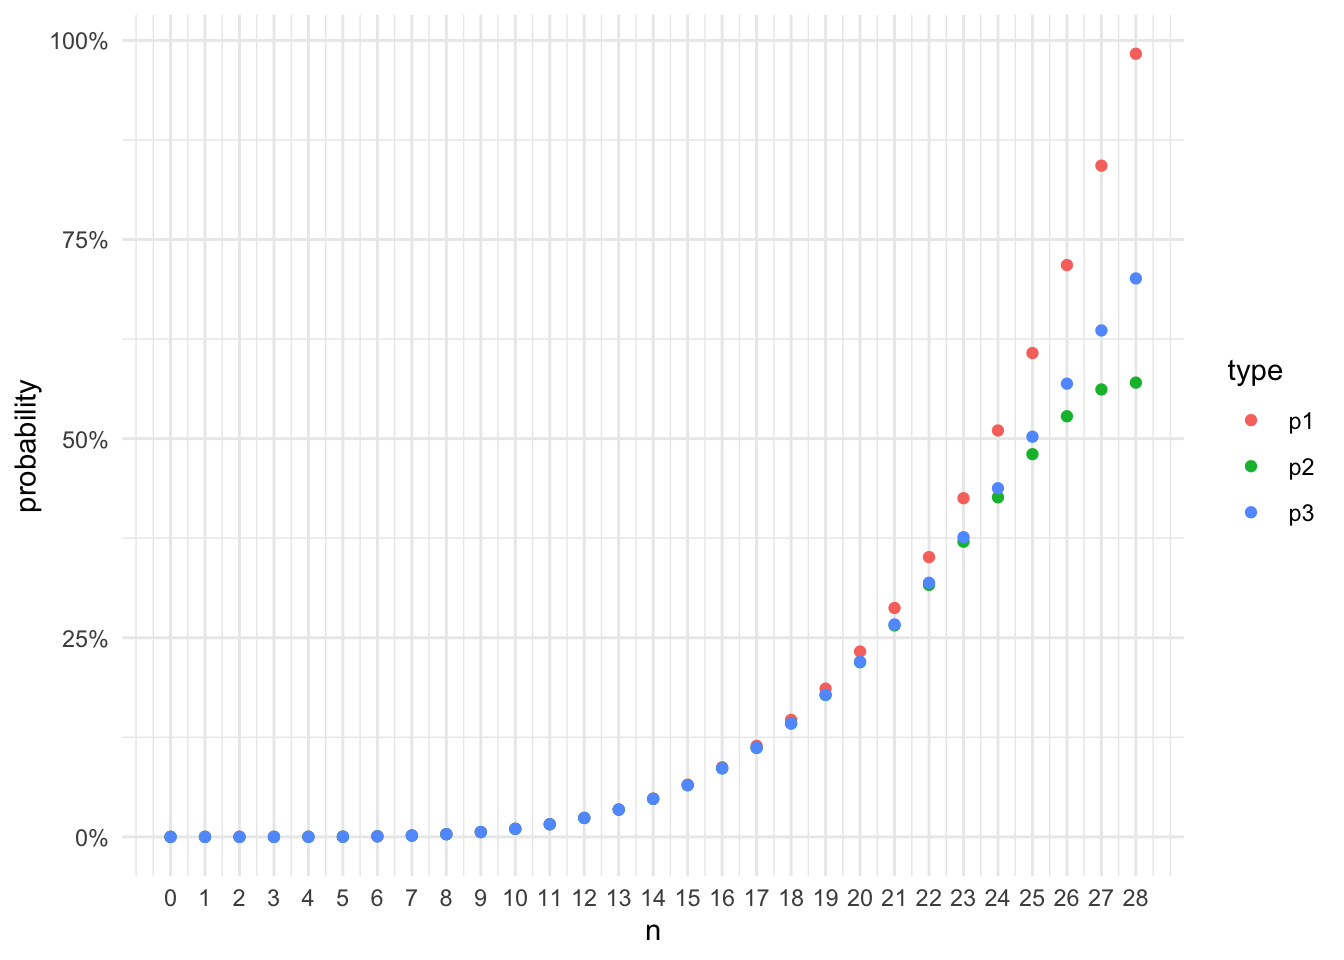
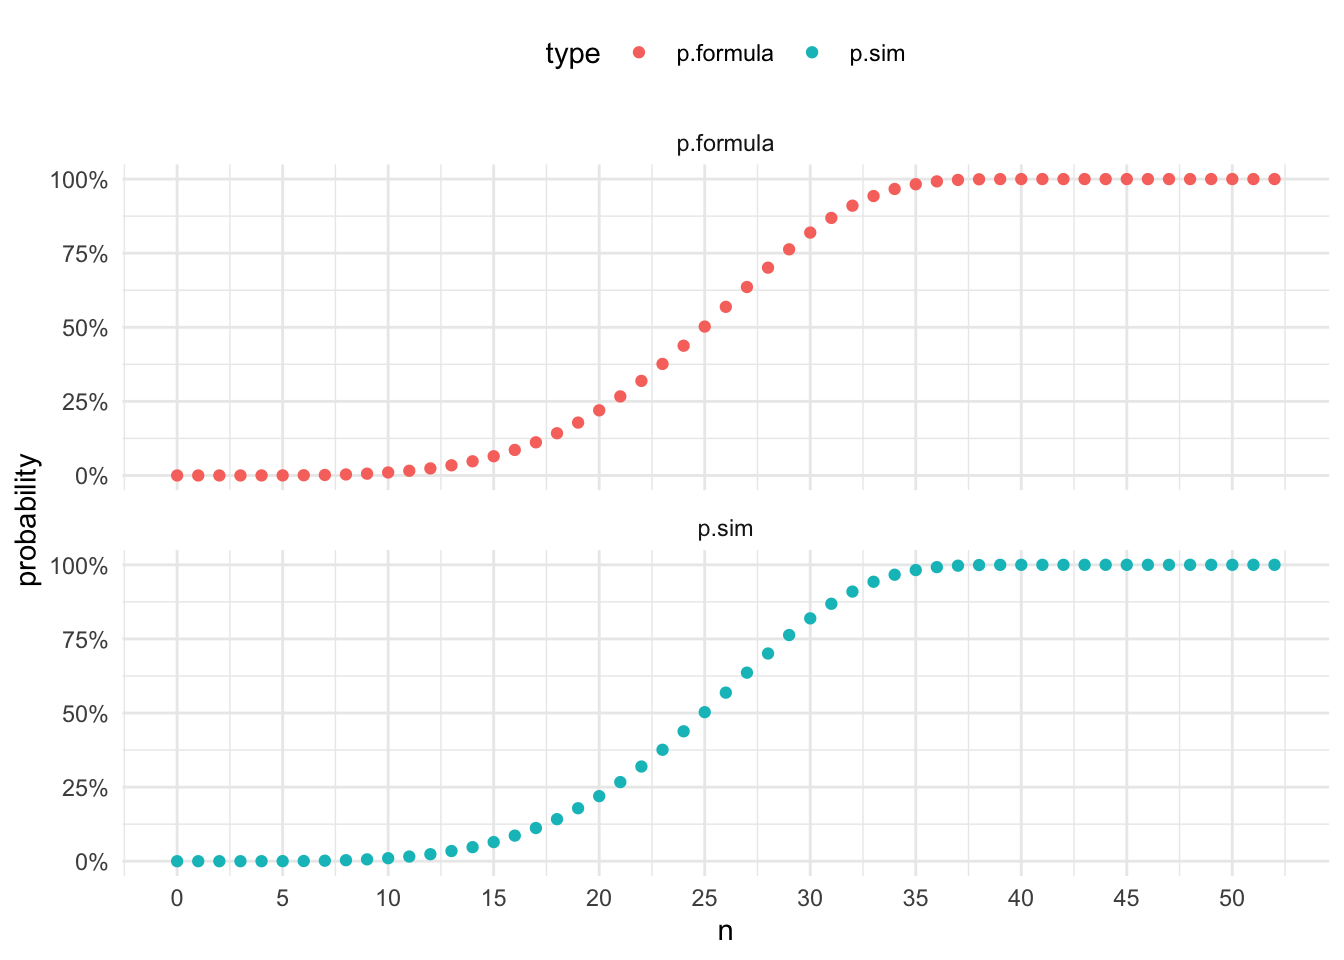
Finish up the first draft of the article

diff --git a/content/post/2021-05-14-the-journey-of-discovering-four-of-a-kind-in-a-standard-deck-of-cards/index.html b/content/post/2021-05-14-the-journey-of-discovering-four-of-a-kind-in-a-standard-deck-of-cards/index.html
@@ -372,7 +372,7 @@ P(\text{exactly 2 four-of-a-kind}) = \frac{\binom{13}{2} \cdot \binom{44}{n-8}}{
 \]</span></p>
 <p>I now turn my attention to the first term <span class="math inline">\(P(\text{exactly 1 four-of-a-kind})\)</span>.</p>
 <p><span class="math display">\[
-P(\text{exactly 1 four-of-a-kind}) = P(\text{1 four-of-a-kind}) \cdot [1 - P_{-1}(\text{four-of-a-kind})]
+P(\text{exactly 1 four-of-a-kind}) = P(\text{1 four-of-a-kind}) \cdot [1 - P_{12}(\text{four-of-a-kind})]
 \]</span></p>
 <p>where,</p>
 <p><span class="math display">\[
@@ -380,11 +380,11 @@ P(\text{1 four-of-a-kind}) = \frac{\binom{13}{1} \cdot \binom{48}{n-4}}{\binom{5
 \]</span></p>
 <p>and</p>
 <p><span class="math display">\[
-P_{-1}(\text{four-of-a-kind}) = \frac{\binom{12}{1} \cdot \binom{44}{n-8}}{\binom{48}{n-4}}
+P_{12}(\text{four-of-a-kind}) = \frac{\binom{12}{1} \cdot \binom{44}{n-8}}{\binom{48}{n-4}}
 \]</span></p>
 <ul>
 <li><span class="math inline">\(P(\text{1 four-of-a-kind})\)</span> is the probability of having at least 1 four-of-a-kind.</li>
-<li><span class="math inline">\(P_{-1}(\text{exactly 1 four-of-a-kind})\)</span> is <em>the probability of having exactly 1 four-of-a-kind in the remaining 48 cards when a kind has already been drawn (hence the -1 subscript)</em>. When <span class="math inline">\(8 \leq n \leq 11\)</span>, <span class="math inline">\(4 \leq n-4 \leq 7\)</span>, so the only possibility of having four-of-a-kind is to have exactly 1 four-of-a-kind in the remaining <span class="math inline">\(n-4\)</span> cards in the hand.</li>
+<li><span class="math inline">\(P_{12}(\text{four-of-a-kind})\)</span> is <em>the probability of having four-of-a-kind in the remaining 48 (i.e., only 12 ranks left and hence the subscript) cards when a kind has already been drawn</em>. When <span class="math inline">\(8 \leq n \leq 11\)</span>, <span class="math inline">\(4 \leq n-4 \leq 7\)</span>, so the only possibility of having four-of-a-kind is to have exactly 1 four-of-a-kind in the remaining <span class="math inline">\(n-4\)</span> cards in the hand.</li>
 </ul>
 <p>Putting these all together:</p>
 <p><span class="math display">\[
@@ -417,7 +417,7 @@ P(\text{exactly 3 four-of-a-kind}) = \frac{\binom{13}{3} \cdot \binom{40}{n-12}}
 <p>When <span class="math inline">\(12 \leq n \leq 15\)</span>, <span class="math inline">\(0 \leq n-12 \leq 3\)</span>, so it’s not possible to have four-of-kind in the residual (i.e., <span class="math inline">\(n-12\)</span>) cards.</p>
 <p>I can deduce <span class="math inline">\(P(\text{exactly 2 four-of-a-kind})\)</span> using the same logic I used in the second case.</p>
 <p><span class="math display">\[
-P(\text{exactly 2 four-of-a-kind}) = P(\text{2 four-of-a-kind}) \cdot [1 - P_{-2}(\text{four-of-a-kind})]
+P(\text{exactly 2 four-of-a-kind}) = P(\text{2 four-of-a-kind}) \cdot [1 - P_{11}(\text{four-of-a-kind})]
 \]</span></p>
 <p>where,</p>
 <p><span class="math display">\[
@@ -425,19 +425,19 @@ P(\text{2 four-of-a-kind}) = \frac{\binom{13}{2} \cdot \binom{44}{n-8}}{\binom{5
 \]</span></p>
 <p>and</p>
 <p><span class="math display">\[
-P_{-2}(\text{four-of-a-kind}) = \frac{\binom{11}{1} \cdot \binom{40}{n-12}}{\binom{44}{n-8}}
+P_{11}(\text{four-of-a-kind}) = \frac{\binom{11}{1} \cdot \binom{40}{n-12}}{\binom{44}{n-8}}
 \]</span></p>
 <p>So,</p>
 <p><span class="math display">\[
 \begin{aligned}
-P(\text{exactly 2 four-of-a-kind}) &amp;= P(\text{2 four-of-a-kind}) \cdot [1 - P_{-2}(\text{four-of-a-kind})] \\
+P(\text{exactly 2 four-of-a-kind}) &amp;= P(\text{2 four-of-a-kind}) \cdot [1 - P_{11}(\text{four-of-a-kind})] \\
 &amp;= \frac{\binom{13}{2} \cdot \binom{44}{n-8}}{\binom{52}{n}} \cdot [1 - \frac{\binom{11}{1} \cdot \binom{40}{n-12}}{\binom{44}{n-8}}] \\
 &amp;= \frac{\binom{13}{2} \cdot \binom{44}{n-8}}{\binom{52}{n}} - \frac{\binom{13}{2} \cdot \binom{11}{1} \cdot \binom{40}{n-12}}{\binom{52}{n}}
 \end{aligned}
 \]</span>
 The most difficult term to compute is <span class="math inline">\(P(\text{exactly 1 four-of-a-kind})\)</span>. Using the same logic as above, I have</p>
 <p><span class="math display">\[
-P(\text{exactly 1 four-of-a-kind}) = P(\text{1 four-of-a-kind}) \cdot [1 - P_{-1}(\text{four-of-a-kind})]
+P(\text{exactly 1 four-of-a-kind}) = P(\text{1 four-of-a-kind}) \cdot [1 - P_{12}(\text{four-of-a-kind})]
 \]</span></p>
 <p>I’ve computed the first term a couple of times throughout this article so far.</p>
 <p><span class="math display">\[
@@ -445,11 +445,11 @@ P(\text{1 four-of-a-kind})  = \frac{\binom{13}{1}\binom{48}{n-4}}{\binom{52}{n}}
 \]</span></p>
 <p>When <span class="math inline">\(12 \leq n \leq 15\)</span>, <span class="math inline">\(8 \leq n-4 \leq 11\)</span> which falls into the second case. That is, there are at most 2 sets of four-of-a-kind in the residual cards. So</p>
 <p><span class="math display">\[
-P_{-1}(\text{four-of-a-kind}) = P_{-1}(\text{exactly 1 four-of-a-kind}) + P_{-1}(\text{exactly 2 four-of-a-kind})
+P_{12}(\text{four-of-a-kind}) = P_{12}(\text{exactly 1 four-of-a-kind}) + P_{12}(\text{exactly 2 four-of-a-kind})
 \]</span></p>
 <p>Following the same logic, I can get</p>
 <p><span class="math display">\[
-P_{-1}(\text{four-of-a-kind}) = \frac{\binom{12}{1} \cdot \binom{44}{n-8} - \binom{12}{2} \cdot \binom{40}{n-12}}{\binom{48}{n-4}}
+P_{12}(\text{four-of-a-kind}) = \frac{\binom{12}{1} \cdot \binom{44}{n-8} - \binom{12}{2} \cdot \binom{40}{n-12}}{\binom{48}{n-4}}
 \]</span></p>
 <p>Putting everything together,</p>
 <p><span class="math display">\[
@@ -459,34 +459,108 @@ P(\text{four-of-a-kind}) &amp;= P(\text{exactly 3 four-of-a-kind}) + P(\text{exa
 &amp;= \frac{\binom{13}{3} \cdot \binom{40}{n-12}}{\binom{52}{n}} + \frac{\binom{13}{2} \cdot \binom{44}{n-8}}{\binom{52}{n}} - \frac{\binom{13}{2} \cdot \binom{11}{1} \cdot \binom{40}{n-12}}{\binom{52}{n}} + \frac{\binom{13}{1}\binom{48}{n-4}}{\binom{52}{n}} - \frac{\binom{13}{1} \cdot \binom{12}{1} \cdot \binom{44}{n-8}}{\binom{52}{n}} + \frac{\binom{13}{1} \cdot \binom{12}{2} \cdot \binom{40}{n-12}}{\binom{52}{n}} \\
 &amp;= \frac{\binom{13}{1}\binom{48}{n-4}}{\binom{52}{n}} + \frac{\binom{13}{2} \cdot \binom{44}{n-8} - \binom{13}{1} \cdot \binom{12}{1} \cdot \binom{44}{n-8}}{\binom{52}{n}} + \frac{\binom{13}{3} \cdot \binom{40}{n-12} - \binom{13}{2} \cdot \binom{11}{1} \cdot \binom{40}{n-12} + \binom{13}{1} \cdot \binom{12}{2} \cdot \binom{40}{n-12}}{\binom{52}{n}}
 \end{aligned}
+\]</span>
+The formula is now a monstrosity. But the process of deriving the formula gives me some hint at how a generalized formula might be worked out. The general idea is very simple.</p>
+<p><span class="math display">\[
+P(\text{exactly }k\text{ four-of-a-kid}) = P(k\text{ four-of-a-kind}) \cdot [1 - P_{13-k}(\text{four-of-a-kind})]
 \]</span></p>
-<pre class="r"><code>simple_prob &lt;- function(k, n, r) {
+<p>Let <span class="math inline">\(G\)</span> be a function that inputs of <span class="math inline">\(r\)</span> (i.e., how many full ranks are in the deck or remaining of the deck) and gives the probability of having at least <span class="math inline">\(k\)</span> four-of-a-kind in an <span class="math inline">\(n\)</span>-card hand.</p>
+<p><span class="math display">\[
+\begin{aligned}
+G(r, k, n) &amp;= P_{r}(k\text{ four-of-a-kind in }n\text{-card hand}) \\
+&amp;= \frac{\binom{r}{k} \cdot \binom{4r-4k}{n-4k}}{\binom{4r}{n}}
+\end{aligned}
+\]</span></p>
+<p>Let <span class="math inline">\(F\)</span> be a function that takes in an input of <span class="math inline">\(r\)</span> and gives the probability of having four-of-a-kind in an <span class="math inline">\(n\)</span>-card hand.</p>
+<p><span class="math display">\[
+F(n, r) = P_{r}(\text{four-of-a-kind in }n\text{-card hand})
+\]</span></p>
+<p>Then the generalized question becomes the following (assuming the cards are drawn from a standard 13-rank deck).</p>
+<p><span class="math display">\[
+P(\text{four-of-a-kind}) = F(n, 13)
+\]</span></p>
+<p>For the third case (i.e., <span class="math inline">\(12 \leq n \leq 15\)</span>),</p>
+<p><span class="math display">\[
+\begin{aligned}
+P(\text{four-of-a-kind}) = P(\text{exactly 1 four-of-a-kind}) &amp;+ P(\text{exactly 2 four-of-a-kind}) \\
+&amp;+ P(\text{exactly 3 four-of-a-kind})
+\end{aligned}
+\]</span></p>
+<p>and</p>
+<p><span class="math display">\[
+\begin{aligned}
+P(\text{exactly 1 four-of-a-kind}) &amp;= P(\text{1 four-of-a-kind}) \cdot [1 - P_{12}(\text{four-of-a-kind})] \\
+&amp;= G(13, 1, n) \cdot [1 - F(n-4, 12)]
+\end{aligned}
+\]</span>
+<span class="math display">\[
+\begin{aligned}
+P(\text{exactly 2 four-of-a-kind}) &amp;= P(\text{2 four-of-a-kind}) \cdot [1 - P_{11}(\text{four-of-a-kind})] \\
+&amp;= G(13, 2, n) \cdot [1 - F(n-8, 11)]
+\end{aligned}
+\]</span></p>
+<p><span class="math display">\[
+\begin{aligned}
+P(\text{exactly 3 four-of-a-kind}) &amp;= P(\text{3 four-of-a-kind}) \cdot [1 - P_{10}(\text{four-of-a-kind})] \\
+&amp;= G(13, 3, n) \cdot [1 - F(n-12, 10)]
+\end{aligned}
+\]</span></p>
+<p>So</p>
+<p><span class="math display">\[
+\begin{aligned}
+P(\text{four-of-a-kind}) &amp;= F(n, 13) \\
+&amp;= P(\text{exactly 1 four-of-a-kind}) + P(\text{exactly 2 four-of-a-kind}) + P(\text{exactly 3 four-of-a-kind}) \\
+&amp;= G(13, 1, n) \cdot [1 - F(n-4, 12)] + G(13, 2, n) \cdot [1 - F(n-8, 11)] + G(13, 3, n) \cdot [1 - F(n-12, 10)]
+\end{aligned}
+\]</span>
+Generalizing <span class="math inline">\(F(n, 13)\)</span> becomes</p>
+<p><span class="math display">\[
+\begin{aligned}
+P(\text{four-of-a-kind}) &amp;= F(n, 13) \\
+&amp;= \sum\limits_{k=1}^{13} G(13, k, n) \cdot [1 - F(n-4k, 13-k)]
+\end{aligned}
+\]</span></p>
+<p>For this to work, <span class="math inline">\(F(n, r) = 0\)</span> for <span class="math inline">\(n \leq 3\)</span>. Once the logic is sorted out, it’s actually quite easy to code the recursive function.</p>
+<pre class="r"><code>G &lt;- function(r, k, n) {
   choose(r, k) * choose(4*r-4*k, n-4*k) / choose(4*r, n)
 }
 
-compute_has_foak &lt;- function(n, r) {
-  K &lt;- n %/% 4
-  if (K == 0) {
+F &lt;- function(n, r) {
+  if (n &lt;= 3) {
     return(0)
   }
-  res &lt;- vector(mode = &quot;numeric&quot;, length = K)
-  for (i in seq(K)) {
-    res[i] &lt;- simple_prob(i, n, r) * (1 - compute_has_foak(n-4*i, r-i))
+  res &lt;- vector(mode = &quot;numeric&quot;, length = r)
+  for (i in seq(r)) {
+    res[i] &lt;- G(r, i, n) * (1 - F(n-4*i, r-i))
   }
   sum(res)
 }</code></pre>
+<p>I first plot the results with the simulation results to see if they match.</p>
+<pre class="r"><code>df.sim %&gt;%
+  rename(p.sim = p) %&gt;%
+  mutate(p.formula = map_dbl(n, ~F(.x, r = 13))) %&gt;%
+  pivot_longer(p.sim:p.formula, names_to = &quot;type&quot;, values_to = &quot;probability&quot;) %&gt;%
+  ggplot(aes(x = n, y = probability)) +
+    geom_point(aes(color = type)) +
+    scale_x_continuous(breaks = seq(0, 50, 5)) +
+    scale_y_continuous(label = percent) +
+    facet_wrap(~type, ncol = 1) +
+    theme(legend.position = &quot;top&quot;)</code></pre>
+<p><img src="{{< blogdown/postref >}}index_files/figure-html/unnamed-chunk-11-1.png" width="672" /></p>
+<p>The results match the simulation very well. Out of curiosity, I plot the original and corrected results for <span class="math inline">\(n \in [0, 28]\)</span> with the formula results to see which one is “more accurate”.</p>
 <pre class="r"><code>df3 &lt;- tibble(
   n = 0:28,
-  p1 = map_dbl(n, prob1),
-  p2 = map_dbl(n, prob2),
-  p3 = map_dbl(n, ~compute_has_foak(.x, r = 13))
+  p.original = map_dbl(n, prob1),
+  p.corrected = map_dbl(n, prob2),
+  p.formula = map_dbl(n, ~F(.x, r = 13))
 )
 df3 %&gt;%
-  pivot_longer(p1:p3, names_to = &quot;type&quot;, values_to = &quot;probability&quot;) %&gt;%
+  pivot_longer(-n, names_to = &quot;type&quot;, values_to = &quot;probability&quot;) %&gt;%
   ggplot(aes(x = n, y = probability)) +
     geom_point(aes(color = type)) +
     scale_x_continuous(breaks = seq(0, 28, 1)) +
-    scale_y_continuous(label = percent)</code></pre>
-<p><img src="{{< blogdown/postref >}}index_files/figure-html/unnamed-chunk-11-1.png" width="672" /></p>
+    scale_y_continuous(label = percent) +
+    theme(legend.position = &quot;top&quot;)</code></pre>
+<p><img src="{{< blogdown/postref >}}index_files/figure-html/unnamed-chunk-12-1.png" width="672" /></p>
 </div>
 </div>
